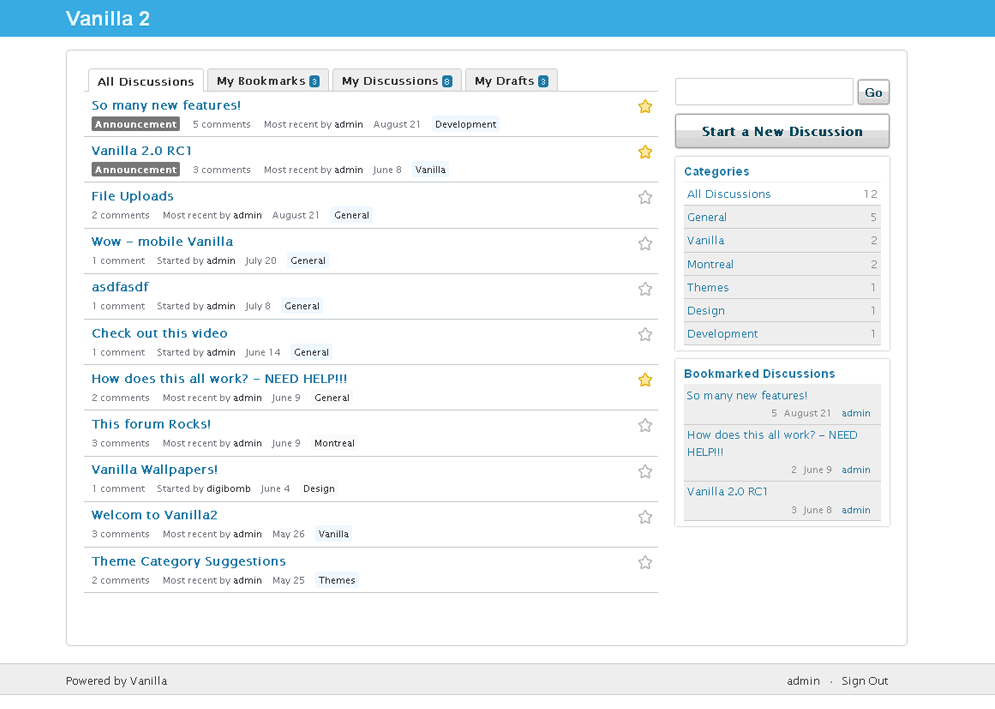
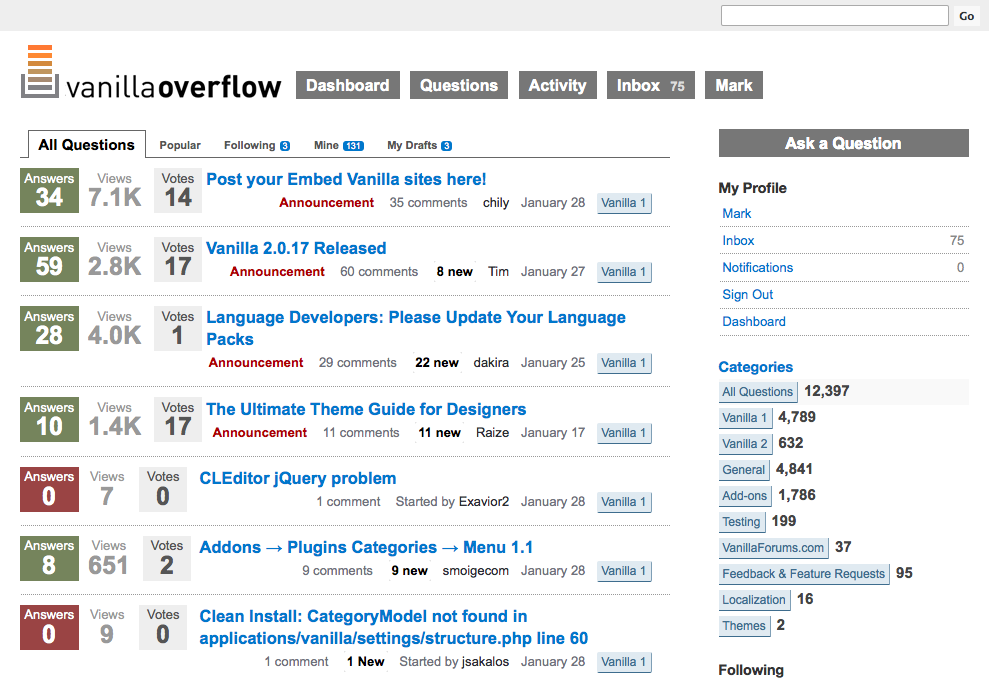
Completing social themes.

Changed region(s): [[0.0, 0.0, 1.0, 1.0]]

diff --git a/themes/vanillaoverflow/design/custom.css b/themes/vanillaoverflow/design/custom.css
@@ -15,18 +15,16 @@ a.BigButton {
     color:#ffffff;
     cursor: pointer;
     display: block;
-    font-size: 12px;
+    font-size: 16px;
     font-weight: bold;
-    margin: -48px 0 40px 130px;
+    margin: 0;
     padding: 3px;
     text-align: center;
     border:none;
-    width: 110px;
-    
-    /*resets */
     -moz-border-radius: 0 0 0 0;
     -moz-box-shadow: 0 0 0 #999999;
      text-shadow: 0 0 0 #FFFFFF;
+     margin-bottom: 20px;
 }
 a.BigButton:hover {
 	color:#ffffff;
@@ -70,11 +68,15 @@ a.Button:hover,
 	width: 99.9%;
 	position: relative;
 }
-#dashboard_profile_index #Body{
-clear: both;
+#dashboard_profile_index #Body {
+    padding-top: 20px;
+    clear: both;
+}
+ul.Condensed li, li.Condensed {
+    clear: none;
 }
 .Wrapper{
-margin: 20px auto;
+margin: 0 auto;
 width: 960px;
 }
 
@@ -110,7 +112,7 @@ color:#999;
     vertical-align: bottom;
 }
 .Banner {
-    padding: 10px;
+    padding: 10px 0 30px;
     text-align: left;
 }
 .Banner ul {
@@ -152,16 +154,14 @@ color:#999;
 
 }
 .Banner ul li a span {
-	border-radius: 3px;
-	-moz-border-radius: 3px;
-	-webkit-border-radius: 3px;
-	padding: 1px 2px 0 1px;
-	background: #000;
-
-	color: #fff;
-	font-size: 9px;
+	padding: 0 0 0 6px;
+	background: transparent;
+	color: #ddd;
+   font-weight: bold;
+	font-size: 13px;
 	position: relative;
-	top: -3px;
+	top: auto;
+   line-height: 1;
 }
 #Content {
 	float: left;
@@ -178,10 +178,7 @@ color:#999;
 	margin-right: 4px;
 }
 div.SearchBox {
-	left: 620px;
-    position: relative;
-    top: -20px;
-    width: 300px;
+    text-align: right;
 }
 div.SearchBox input.InputBox{
 
@@ -190,12 +187,14 @@ div.SearchBox input.InputBox{
     margin: 5px 5px 0 0;
     width: 150px;
     height: 13px;
+    width: 220px;
 }
 div.SearchBox a.Button, div.SearchBox .Button {
     background: #f8f8f8;
     font-size: 11px;
     padding: 2px;
     left:5px;
+    color: #333;
     
     /*resets*/
     -moz-border-radius: 0 0 0 0;
@@ -317,6 +316,9 @@ body.Discussion a.Bookmark {
 ul.Discussions div.ItemContent {
     margin: 0 0 0 180px;
 }
+ul.Discussions li.Item {
+    padding: 10px 0;
+}
 
 .Mine {
     background: none repeat scroll 0 0 #ffffff;
@@ -334,6 +336,7 @@ div.Tags ul.PanelInfo li {
     border: none;
     padding: 0;
 }
+ul.DataList div.Meta a.Category,
 div.BoxCategories ul.PanelInfo li strong a,
 div.Tags ul.PanelInfo li strong a {
     background-color: #E0EAF1;
@@ -348,6 +351,7 @@ div.Tags ul.PanelInfo li strong a {
     white-space: nowrap;
     float: none;
 }
+ul.DataList div.Meta a.Category:hover,
 div.BoxCategories ul.PanelInfo li strong a:hover,
 div.Tags ul.PanelInfo li strong a:hover {
     background-color: #3E6D8E;
@@ -415,12 +419,12 @@ div.Box h4 {
 	color: #333;
 }
 ul.PanelInfo {
-	border-top:1px solid #ccc;
+	border-top: 1px dotted #999;
 }
 ul.PanelInfo li,
 ul.PanelInfo li.Active {
 	background: none;
-	border-bottom: 1px solid #ccc;
+	border-bottom: 1px dotted #999;
 }
 ul.PanelInfo li.Active {
 	background: #f9f9f9;
@@ -442,9 +446,6 @@ body.Profile ul.PanelInfo li a:hover {
 	background: #D8DFEA;
 }
 
-body.Activity #Content{
-width: auto;
-} 
 ul.Activities ul.DataList li {
     background:#EEEEEE;
 
@@ -484,10 +485,12 @@ ul.DataList div.Options {
     width: auto;
 }
 ul.DataList div.Meta strong {
+    background: none;
     -moz-box-shadow: 0 0 0 #777777;
-    left: 610px;
-    top:30px;
-    position: absolute;
+    left: auto;
+    top: auto;
+    position: relative;
+    font-size: 13px;
     white-space: nowrap;
 }
 #conversations_messages_inbox ul.DataList div.Meta strong {
@@ -503,13 +506,24 @@ ul.DataList div.Meta strong {
 	}
 	
 ul.MessageList div.Meta span.Votes {
-
-    right: 0;
+    position: relative;
+    right: auto;
+    float: right;
 }
 
 div.MessageForm {
     background:  #EEEEEE;
     border-bottom: 1px solid #DDDDDD;
+}
+div.Preview div.Message, ul.MessageList div.Message {
+    font-size: 14px;
+}
+div.User h1 {
+    display: inline-block;
+}
+#Status {
+    background: none;
+    display: inline-block;
 }
 
 /* voting */
@@ -576,13 +590,21 @@ span.Votes span {
     color: #555555 !important;
  
 }
+div.Meta span.CommentCount {
+    display: inline;
+}
 
 
 ul.DataList a.Title {
     font-size: 16.6px;
 }
-ul.DataList div.Meta {
+ul.Discussions div.Meta {
+    text-align: right;
     font-size: 13px;
+}
+ul.DataList div.Meta span,
+ul.DataList div.Meta strong {
+    direction: rtl;
 }
 ul.DataList div.Meta span.Announcement {
     background: none;

diff --git a/themes/vanillaoverflow/about.php b/themes/vanillaoverflow/about.php
@@ -12,10 +12,10 @@ Contact Vanilla Forums Inc. at support [at] vanillaforums [dot] com
  * An associative array of information about this application.
  */
 $ThemeInfo['vanillaoverflow'] = array(
-   'Name' => 'vanillaoverflow',
-   'Description' => "stackoverflow mimic",
+   'Name' => 'Vanilla Overflow',
+   'Description' => "Turn your Vanilla forum into a question & answer site. Requires the Voting plugin.",
    'Version' => '1.0',
-   'Author' => "Brendan Sera-Shriar",
-   'AuthorEmail' => 'brendan@vanillaforums.com',
-   'AuthorUrl' => 'http://brendanserashriar.com'
+   'Author' => "Mark O'Sullivan & Brendan Sera-Shriar",
+   'AuthorEmail' => 'support@vanillaforums.com',
+   'AuthorUrl' => 'http://vanillaforums.org'
 );

diff --git a/themes/vanillaoverflow/class.vanillaoverflowthemehooks.php b/themes/vanillaoverflow/class.vanillaoverflowthemehooks.php
@@ -1,0 +1,21 @@
+<?php if (!defined('APPLICATION')) exit();
+
+class VanillaOverflowThemeHooks implements Gdn_IPlugin {
+	
+	/**
+	 * Move the guest module over to the BodyMenu asset.
+	 */
+	public function Base_Render_Before($Sender) {
+		Gdn::Locale()->SetTranslation('Most recent by %1$s', '%1$s');
+	}
+	
+   public function Setup() {
+		return TRUE;
+   }
+
+   public function OnDisable() {
+      return TRUE;
+   }
+	
+	
+}

diff --git a/themes/vanillabook/about.php b/themes/vanillabook/about.php
@@ -2,7 +2,7 @@
 
 $ThemeInfo['vanillabook'] = array(
    'Name' => 'VanillaBook',
-   'Description' => "Turns Vanilla into a Facebook-style social networking application.",
+   'Description' => "Turns Vanilla into a social networking application.",
    'Version' => '1.0',
    'Author' => "Mark O'Sullivan",
    'AuthorEmail' => 'mark@vanillaforums.com',
